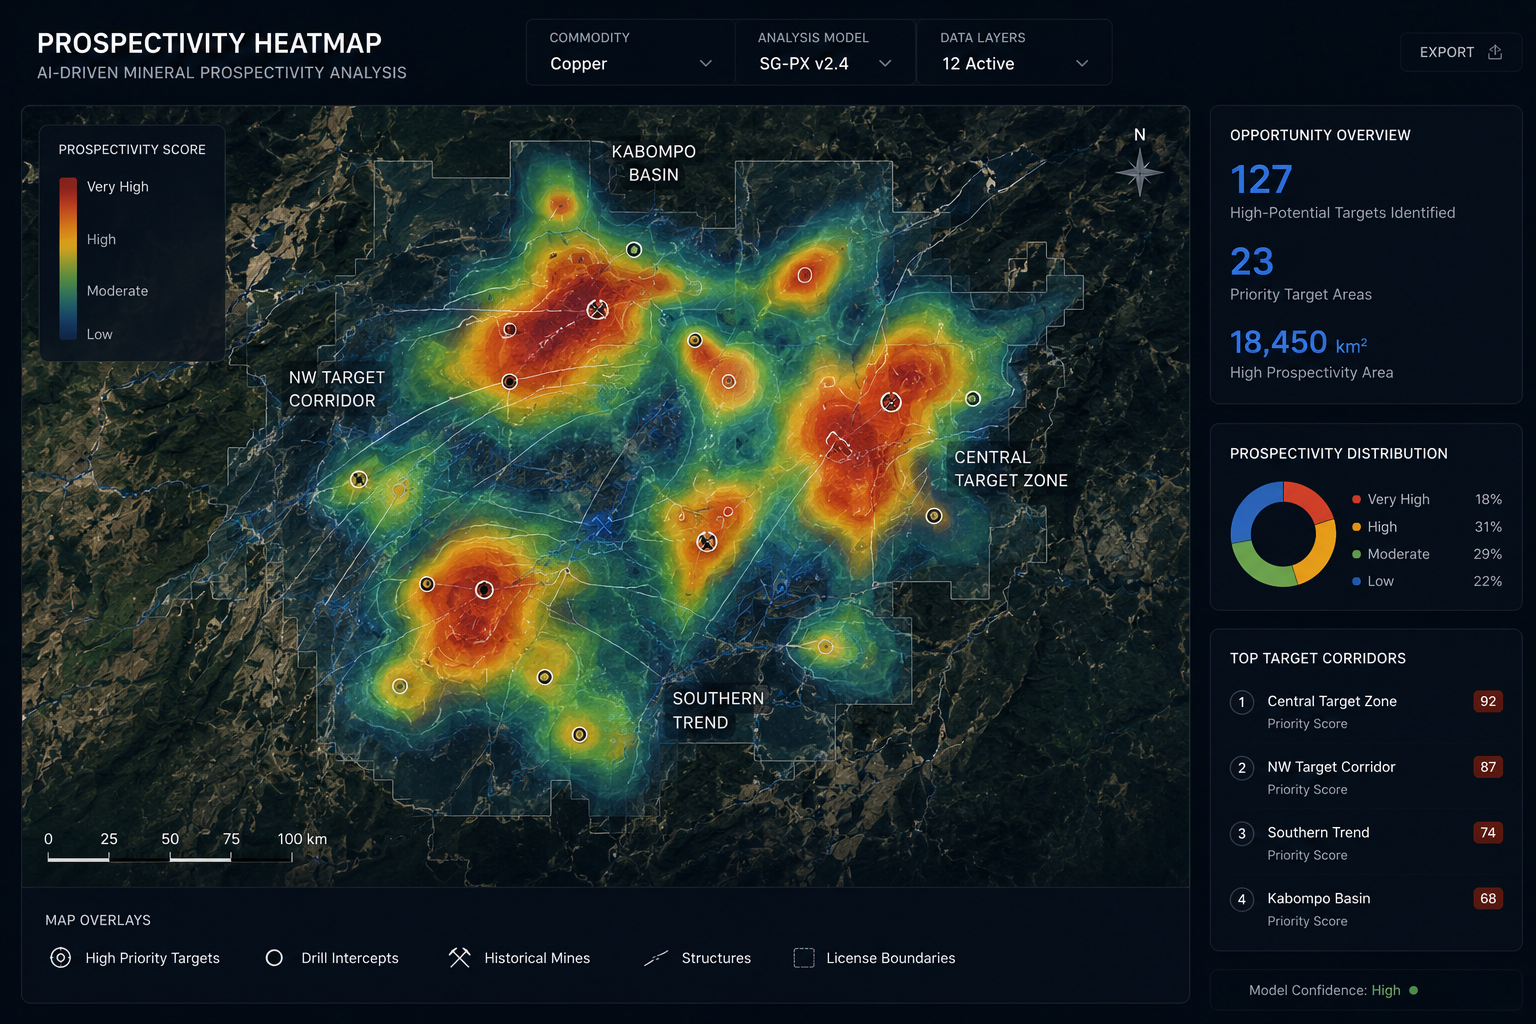
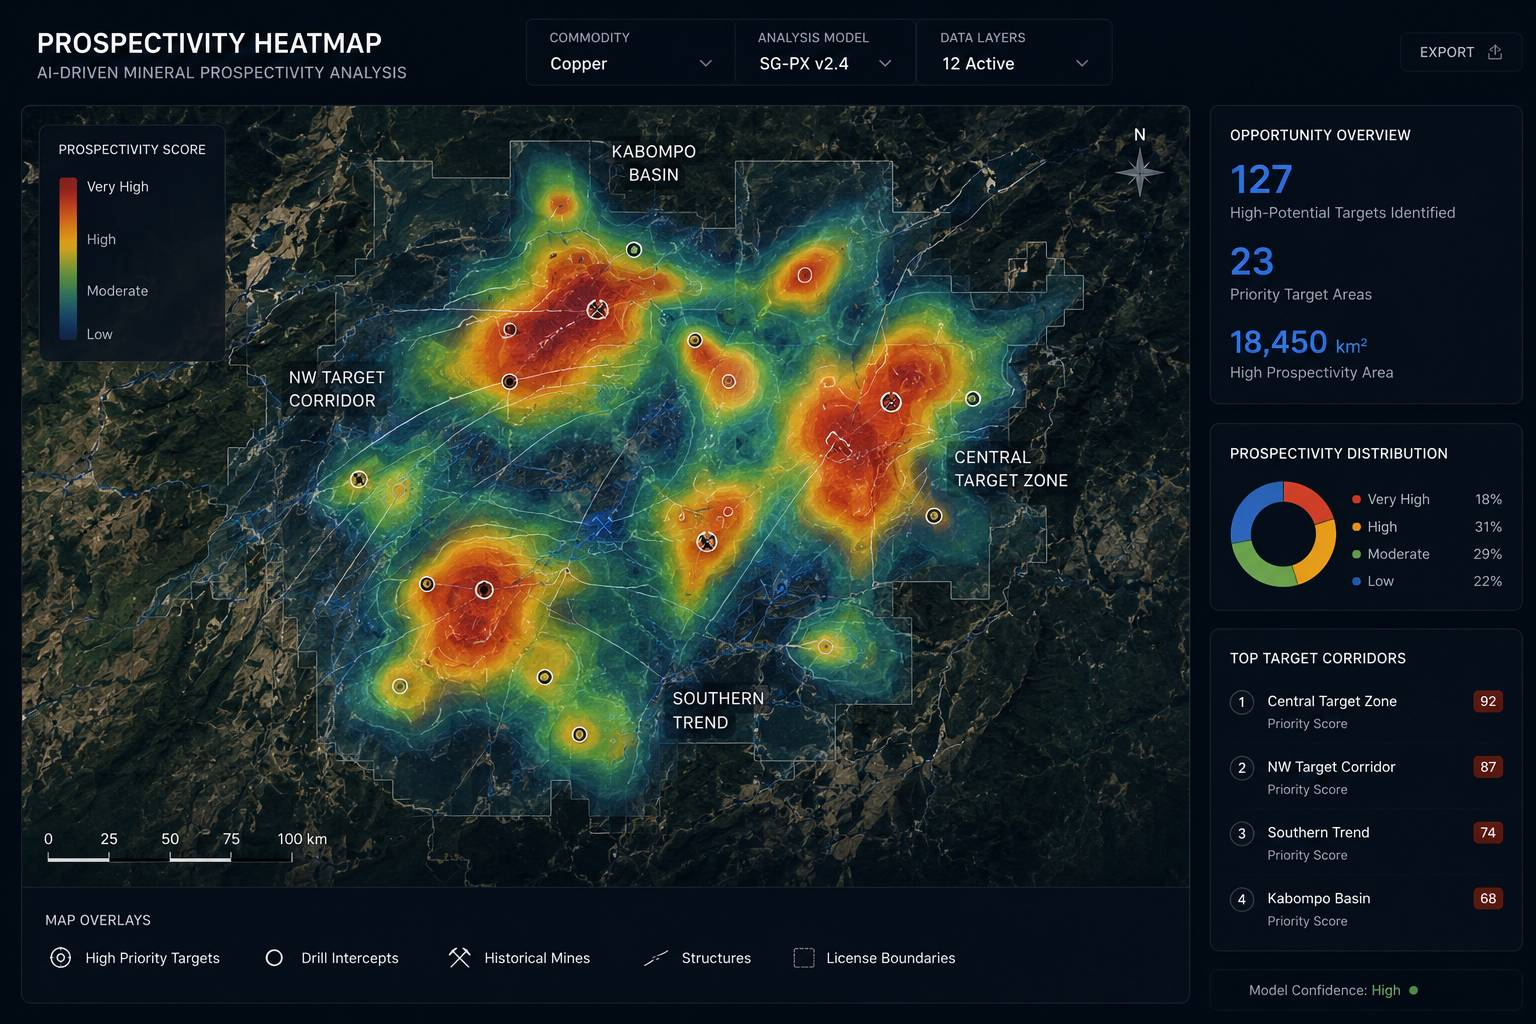
Rebuild hero with full-bleed globe background and glass panels
Uses the night earth image as a full-bleed section background with
gradient overlays for text legibility. Two glass panels float on the
right: Opportunity Overview + Commodities (top right) and Prospectivity
Heatmap (bottom left), matching the source design exactly.

diff --git a/public/index.html b/public/index.html
@@ -160,7 +160,7 @@
 }
 .v2-hero-grid{
   display:grid;
-  grid-template-columns:9fr 11fr;
+  grid-template-columns:5fr 8fr;
   gap:60px;
   align-items:center;
   position:relative;
@@ -282,6 +282,38 @@
 @media(max-width:768px){
   .v2-h-panels-r{flex-direction:column !important}
   .v2-stats-bar{grid-template-columns:1fr 1fr}
+}
+
+/* ==== HERO V2 GLOBE FULL-BLEED LAYOUT ==== */
+.v2-hero::before{background:none !important}
+.v2-hero-globe-bg{position:absolute;inset:0;width:100%;height:100%;object-fit:cover;object-position:center;z-index:0}
+.v2-hero-ov1{position:absolute;inset:0;z-index:1;background:linear-gradient(to right,#050912 18%,rgba(5,9,18,.88) 36%,rgba(5,9,18,.12) 68%)}
+.v2-hero-ov2{position:absolute;inset:0;z-index:1;background:linear-gradient(to bottom,rgba(5,9,18,.6) 0%,transparent 22%,transparent 70%,#050912 100%)}
+.v2-hero-main{z-index:2 !important}
+.v2-hero-vis{position:relative;width:100%;height:540px}
+.v2-glass{
+  background:rgba(6,11,26,.82);
+  backdrop-filter:blur(14px);-webkit-backdrop-filter:blur(14px);
+  border:1px solid rgba(40,65,140,.42);
+  border-radius:12px;
+  box-shadow:0 0 32px rgba(59,130,246,.07),0 2px 20px rgba(0,0,0,.45);
+}
+.v2-p-opp{position:absolute;top:16px;right:0;width:224px;z-index:3}
+.v2-p-hmap{position:absolute;bottom:48px;left:0;right:48px;max-width:360px;z-index:3;overflow:hidden}
+.v2-pc-row{display:flex;align-items:center;justify-content:space-between;padding:4px 0}
+.v2-pc-dot{width:6px;height:6px;border-radius:50%;display:inline-block;flex-shrink:0;margin-right:6px}
+.v2-pc-nm{font-size:10px;color:#c0d0e8;flex:1}
+.v2-pc-sc{font-size:9px;color:#6080a8}
+@media(max-width:1024px){
+  .v2-hero-vis{height:420px}
+  .v2-p-opp{width:190px}
+  .v2-p-hmap{right:24px}
+}
+@media(max-width:768px){
+  .v2-hero-grid{grid-template-columns:1fr !important}
+  .v2-hero-vis{height:320px}
+  .v2-p-opp{width:160px;top:8px;right:4px}
+  .v2-p-hmap{max-width:none;right:4px;bottom:8px}
 }
 
 /* Dashboard visualization */
@@ -1917,49 +1949,29 @@ function v2EnvCard(num,title,body){
 /* ---- Section builders ---- */
 function v2Hero(){
   var arw='<svg width="13" height="13" fill="none" stroke="currentColor" stroke-width="2" viewBox="0 0 24 24" style="vertical-align:middle"><path d="M5 12h14M12 5l7 7-7 7"/></svg>';
-
-  var globe='<div class="v2-h-globe">'
-    +'<svg viewBox="0 0 1400 700" xmlns="http://www.w3.org/2000/svg" style="position:absolute;top:50%;left:50%;transform:translate(-50%,-50%);min-width:100%;min-height:100%" fill="none">'
-    +'<defs>'
-    +'<radialGradient id="vg1" cx="64%" cy="48%" r="38%">'
-    +'<stop offset="0%" stop-color="#0d1f5c" stop-opacity=".5"/>'
-    +'<stop offset="100%" stop-color="#050912" stop-opacity="0"/>'
-    +'</radialGradient>'
-    +'<radialGradient id="vg2" cx="60%" cy="55%" r="30%">'
-    +'<stop offset="0%" stop-color="#c9a84c" stop-opacity=".06"/>'
-    +'<stop offset="100%" stop-color="#050912" stop-opacity="0"/>'
-    +'</radialGradient>'
-    +'</defs>'
-    +'<ellipse cx="900" cy="340" rx="320" ry="295" fill="url(#vg1)"/>'
-    +'<ellipse cx="800" cy="440" rx="200" ry="70" fill="url(#vg2)"/>'
-    +'<path d="M 80 520 Q 540 80 1060 290" stroke="rgba(201,168,76,.28)" stroke-width="1.4" fill="none" stroke-linecap="round"/>'
-    +'<path d="M 160 470 Q 610 110 1110 330" stroke="rgba(201,168,76,.18)" stroke-width="1" fill="none" stroke-linecap="round" stroke-dasharray="5 4"/>'
-    +'<path d="M 40 400 Q 490 210 960 260" stroke="rgba(201,168,76,.14)" stroke-width="1" fill="none" stroke-linecap="round"/>'
-    +'<path d="M 260 540 Q 720 160 1160 360" stroke="rgba(255,220,100,.1)" stroke-width="1.2" fill="none" stroke-linecap="round" stroke-dasharray="6 4"/>'
-    +'<path d="M 320 480 Q 760 200 1080 400" stroke="rgba(201,168,76,.12)" stroke-width="1" fill="none" stroke-linecap="round"/>'
-    +'<circle cx="1060" cy="290" r="4" fill="rgba(201,168,76,.7)"/>'
-    +'<circle cx="1060" cy="290" r="9" fill="rgba(201,168,76,.14)"/>'
-    +'<circle cx="810" cy="410" r="3.5" fill="rgba(201,168,76,.55)"/>'
-    +'<circle cx="810" cy="410" r="7" fill="rgba(201,168,76,.1)"/>'
-    +'<circle cx="610" cy="310" r="2.5" fill="rgba(255,220,100,.5)"/>'
-    +'<circle cx="610" cy="310" r="5" fill="rgba(255,220,100,.1)"/>'
-    +'<circle cx="370" cy="430" r="2" fill="rgba(201,168,76,.4)"/>'
-    +'</svg>'
-    +'</div>';
-
-  var spark='<svg viewBox="0 0 160 36" fill="none" width="100%" height="36" preserveAspectRatio="none" xmlns="http://www.w3.org/2000/svg">'
-    +'<defs><linearGradient id="spk" x1="0" y1="0" x2="0" y2="1"><stop offset="0%" stop-color="#4d8eff" stop-opacity=".3"/><stop offset="100%" stop-color="#4d8eff" stop-opacity="0"/></linearGradient></defs>'
-    +'<path d="M0 30 L22 26 L44 22 L66 20 L88 16 L110 18 L132 10 L160 5" stroke="#4d8eff" stroke-width="1.5" fill="none"/>'
-    +'<path d="M0 30 L22 26 L44 22 L66 20 L88 16 L110 18 L132 10 L160 5 L160 36 L0 36 Z" fill="url(#spk)"/>'
-    +'</svg>';
-
   function ico(d){return '<svg width="26" height="26" fill="none" stroke="currentColor" stroke-width="1.6" stroke-linecap="round" stroke-linejoin="round" viewBox="0 0 24 24">'+d+'</svg>';}
 
+  function commRow(bg,name,score){
+    return '<div class="v2-pc-row">'
+      +'<span class="v2-pc-dot" style="background:'+bg+'"></span>'
+      +'<span class="v2-pc-nm">'+name+'</span>'
+      +'<span class="v2-pc-sc">'+score+'</span>'
+      +'</div>';
+  }
+
+  var globeUrl='/assets/world-map-night.jpg';
+
   return '<section class="v2-hero">'
-    + globe
+    // Full-bleed globe background
+    +'<img src="'+globeUrl+'" alt="" class="v2-hero-globe-bg" loading="eager"/>'
+    // Gradient overlays for text legibility
+    +'<div class="v2-hero-ov1"></div>'
+    +'<div class="v2-hero-ov2"></div>'
+    // Main content
     +'<div class="v2-hero-main">'
       +'<div class="v2-wrap">'
         +'<div class="v2-hero-grid">'
+          // LEFT: text
           +'<div>'
             +'<div class="v2-hero-label"><span class="v2-hero-dot"></span>Strategic Intelligence &amp; Resource Advisory</div>'
             +'<h1 class="v2-h-h1">Strategic Intelligence for<br>'
@@ -1973,38 +1985,44 @@ function v2Hero(){
               +'<a href="/mineral-intelligence" class="v2-btn-ghost">Explore Resource Intelligence</a>'
             +'</div>'
           +'</div>'
-          +'<div class="v2-h-panels">'
-            +'<div class="v2-panel v2-panel-hmap">'
-              +'<div class="v2-hmap-hdr"><span class="v2-panel-lbl">Prospectivity Heatmap</span></div>'
-              +'<div class="v2-hmap-body">'
-                +'<div class="v2-hmap-scale">'
-                  +'<span class="v2-hmap-slbl">High</span>'
-                  +'<div class="v2-hmap-bar"></div>'
-                  +'<span class="v2-hmap-slbl">Low</span>'
+          // RIGHT: floating intelligence cards
+          +'<div class="v2-hero-vis">'
+            // Opportunity Overview + Commodities — top right
+            +'<div class="v2-glass v2-p-opp">'
+              +'<div style="padding:14px">'
+                +'<p style="font-size:9px;font-weight:700;letter-spacing:.18em;text-transform:uppercase;color:#5870a0;margin:0 0 8px">Opportunity Overview</p>'
+                +'<p style="font-size:36px;font-weight:800;color:#f0f4fa;line-height:1;margin:0 0 3px">127</p>'
+                +'<p style="font-size:10px;color:#5870a0;margin:0 0 12px">High-Potential Opportunities</p>'
+                +'<div style="border-top:1px solid rgba(40,65,140,.35);padding-top:10px">'
+                  +'<p style="font-size:9px;font-weight:700;letter-spacing:.15em;text-transform:uppercase;color:#5870a0;margin:0 0 8px">Top Commodities</p>'
+                  + commRow('#4ade80','Copper','Very High')
+                  + commRow('#60a5fa','Gold','High')
+                  + commRow('#60a5fa','Rare Earths','High')
+                  + commRow('#facc15','Lithium','Moderate')
+                  + commRow('#facc15','Nickel','Moderate')
                 +'</div>'
               +'</div>'
-              +'<div class="v2-hmap-foot"><a href="/mineral-intelligence" class="v2-hmap-lnk">View Full Analysis '+arw+'</a></div>'
             +'</div>'
-            +'<div class="v2-h-panels-r">'
-              +'<div class="v2-panel v2-panel-opp">'
-                +'<span class="v2-panel-lbl">Opportunity Overview</span>'
-                +'<div class="v2-opp-num">127</div>'
-                +'<div class="v2-opp-sub">High-Potential Opportunities</div>'
-                + spark
+            // Prospectivity Heatmap — bottom left
+            +'<div class="v2-glass v2-p-hmap">'
+              +'<div style="padding:8px 12px;border-bottom:1px solid rgba(40,65,140,.35);display:flex;align-items:center;justify-content:space-between">'
+                +'<span style="font-size:10px;font-weight:600;color:#c8d8f0">Prospectivity Heatmap</span>'
+                +'<span style="display:flex;align-items:center;gap:4px">'
+                  +'<span style="width:6px;height:6px;border-radius:50%;background:#22c55e;animation:v2-pulse 2s infinite"></span>'
+                  +'<span style="font-size:8px;font-family:monospace;color:#22c55e;letter-spacing:.1em">LIVE</span>'
+                +'</span>'
               +'</div>'
-              +'<div class="v2-panel v2-panel-comm">'
-                +'<span class="v2-panel-lbl" style="margin-bottom:8px">Top Commodities</span>'
-                +'<div class="v2-comm-row"><span class="v2-comm-dot" style="background:#ef4444"></span><span class="v2-comm-nm">Copper</span><span class="v2-comm-badge v2-b-vh">Very High ↑</span></div>'
-                +'<div class="v2-comm-row"><span class="v2-comm-dot" style="background:#3b82f6"></span><span class="v2-comm-nm">Gold</span><span class="v2-comm-badge v2-b-hi">High ↑</span></div>'
-                +'<div class="v2-comm-row"><span class="v2-comm-dot" style="background:#a855f7"></span><span class="v2-comm-nm">Rare Earths</span><span class="v2-comm-badge v2-b-hi">High ↑</span></div>'
-                +'<div class="v2-comm-row"><span class="v2-comm-dot" style="background:#eab308"></span><span class="v2-comm-nm">Lithium</span><span class="v2-comm-badge v2-b-md">Moderate →</span></div>'
-                +'<div class="v2-comm-row"><span class="v2-comm-dot" style="background:#6b7280"></span><span class="v2-comm-nm">Nickel</span><span class="v2-comm-badge v2-b-md">Moderate →</span></div>'
+              +'<img src="/assets/prospectivity-heatmap.png" alt="Prospectivity Heatmap" style="width:100%;height:176px;object-fit:cover;display:block"/>'
+              +'<div style="padding:8px 12px;border-top:1px solid rgba(40,65,140,.35);display:flex;align-items:center;justify-content:space-between">'
+                +'<span style="font-size:9px;color:#5870a0">342 licenses analyzed</span>'
+                +'<a href="/mineral-intelligence" style="font-size:9px;color:#4d8eff;font-weight:600;text-decoration:none">View Full Analysis →</a>'
               +'</div>'
             +'</div>'
           +'</div>'
         +'</div>'
       +'</div>'
     +'</div>'
+    // Stats bar
     +'<div class="v2-stats-bar">'
       +'<div class="v2-stat-itm"><div class="v2-stat-ico">'+ico('<ellipse cx="12" cy="12" rx="10" ry="6"/><ellipse cx="12" cy="8" rx="10" ry="4"/><path d="M2 12c0 3.31 4.48 6 10 6s10-2.69 10-6"/>')+'</div><div><div class="v2-stat-v">50M+</div><div class="v2-stat-l">Data Points Processed</div></div></div>'
       +'<div class="v2-stat-itm"><div class="v2-stat-ico">'+ico('<circle cx="12" cy="12" r="10"/><line x1="2" y1="12" x2="22" y2="12"/><path d="M12 2a15.3 15.3 0 0 1 4 10 15.3 15.3 0 0 1-4 10 15.3 15.3 0 0 1-4-10 15.3 15.3 0 0 1 4-10z"/>')+'</div><div><div class="v2-stat-v">100+</div><div class="v2-stat-l">Intelligence Variables</div></div></div>'